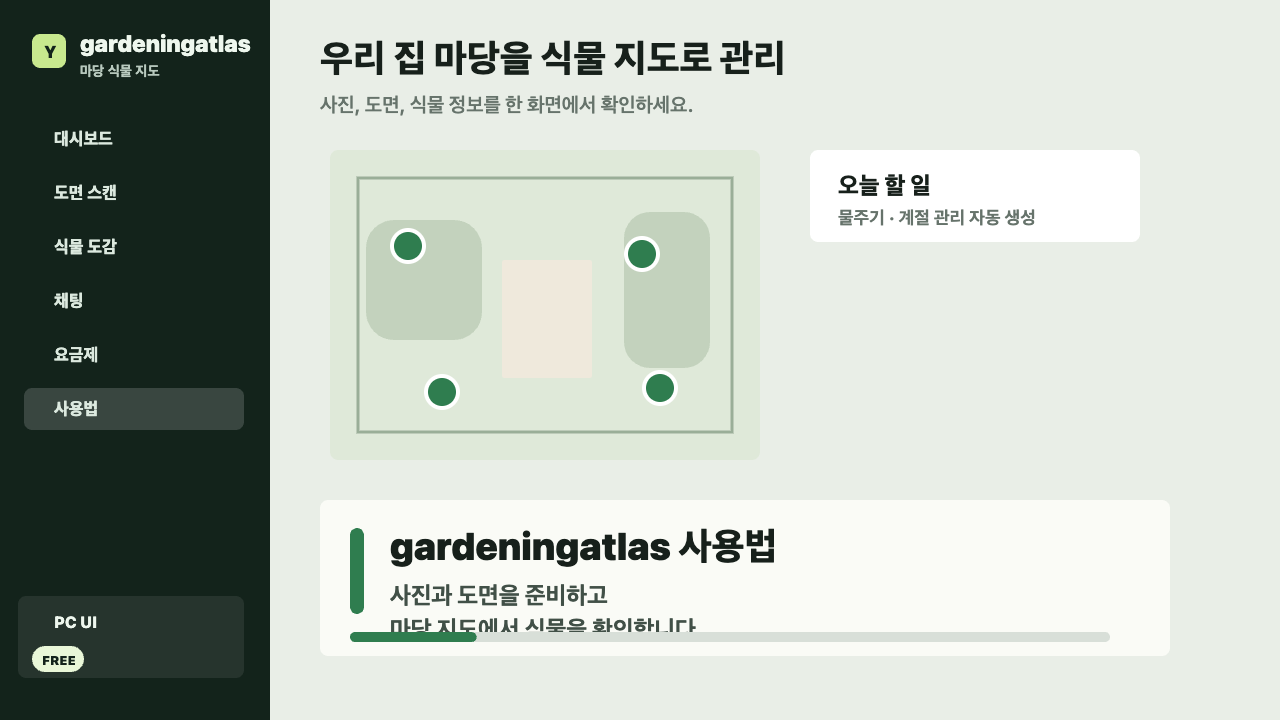
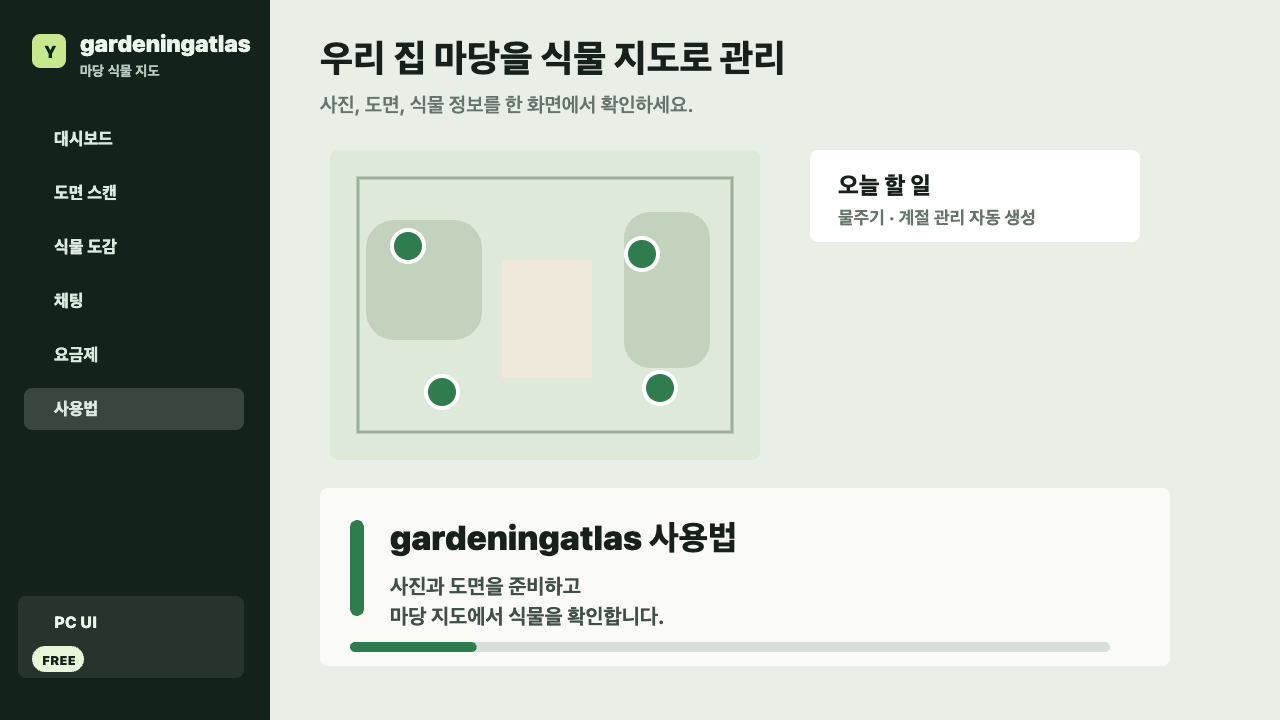
Use real photos for plant parts and fix guide captions

Changed region(s): [[0.25, 0.7028, 0.875, 0.9167]]

diff --git a/server.js b/server.js
@@ -390,17 +390,17 @@ function normalizePlantSearch(text) {
   return String(text || "")
     .replace(/'[^']*'/g, "")
     .replace(/\b(var\.|cv\.|cultivar)\b/gi, "")
+    .replace(/\b(subsp\.|ssp\.|f\.)\b/gi, "")
     .replace(/\s+/g, " ")
     .trim();
 }
 
-function partSearchTerms(part) {
-  return {
-    plant: ["plant", "habitus", "whole plant"],
-    leaf: ["leaf", "foliage", "plant"],
-    flower: ["flower", "blossom", "inflorescence"],
-    seed: ["cone", "fruit", "seed"]
-  }[part] || ["plant"];
+function cleanLatinForPhoto(latin) {
+  return normalizePlantSearch(latin)
+    .replace(/\bsp\.\b/gi, "")
+    .replace(/\b(White|Pink|Red|Yellow|Purple|Double|Fragrant|Silver|Golden|Dwarf|Upright|Weeping|Compact|Leaf|Flower|Group)\b/gi, "")
+    .replace(/\s+/g, " ")
+    .trim();
 }
 
 function fallbackPhotoKeyword(query, part) {
@@ -447,22 +447,33 @@ function fallbackPhotoKeyword(query, part) {
 
 function partPhotoWords(part) {
   return {
-    plant: ["plant", "tree", "shrub", "habitus"],
-    leaf: ["leaf", "leaves", "foliage"],
-    flower: ["flower", "flowers", "bloom", "inflorescence"],
-    seed: ["seed", "seeds", "fruit", "fruits", "berry", "berries", "cone", "cones", "pod"]
+    plant: ["plant", "tree", "shrub", "habitus", "whole plant"],
+    leaf: ["leaf", "leaves", "foliage", "closeup"],
+    flower: ["flower", "flowers", "bloom", "inflorescence", "closeup"],
+    seed: ["seed", "seeds", "fruit", "fruits", "samara", "berry", "berries", "cone", "cones", "pod"]
   }[part] || ["plant"];
 }
 
 function commonsSearchQuery(core, name, part) {
-  const normalizedCore = normalizePlantSearch(core);
+  const normalizedCore = cleanLatinForPhoto(core);
   const normalizedName = normalizePlantSearch(name);
+  const genus = normalizedCore.match(/^[A-Za-z][A-Za-z-]+/)?.[0] || "";
+  const species = normalizedCore.split(/\s+/).slice(0, 2).join(" ");
   const partWords = partPhotoWords(part);
   const primaryPart = partWords[0];
   const terms = [
-    normalizedCore && `${normalizedCore} ${primaryPart}`,
-    normalizedCore && `${normalizedCore} ${partWords.slice(0, 3).join(" OR ")}`,
-    normalizedCore,
+    species && `${species} ${primaryPart}`,
+    species && `${species} ${partWords[1] || primaryPart}`,
+    species && part === "seed" && `${species} fruit`,
+    species && part === "seed" && `${species} samara`,
+    normalizedCore && normalizedCore !== species && `${normalizedCore} ${primaryPart}`,
+    genus && genus !== species && `${genus} ${primaryPart}`,
+    genus && genus !== species && part === "flower" && `${genus} flower`,
+    genus && genus !== species && part === "leaf" && `${genus} leaf`,
+    genus && genus !== species && part === "seed" && `${genus} seed`,
+    part !== "plant" && species && `${species} plant`,
+    part !== "plant" && genus && genus !== species && `${genus} plant`,
+    species || normalizedCore,
     normalizedName && `${normalizedName} ${primaryPart}`,
     normalizedName && `${fallbackPhotoKeyword(normalizedName, part)} ${primaryPart}`
   ].filter(Boolean);
@@ -471,7 +482,7 @@ function commonsSearchQuery(core, name, part) {
 
 async function findCommonsImage(query, seed, part = "plant") {
   const cache = readJsonFile(plantImageFile, { images: {} });
-  const key = `v15|${query}|${part}|${seed}`.toLowerCase();
+  const key = `v20|${query}|${part}|${seed}`.toLowerCase();
   const cached = cache.images[key];
   if (cached && cached.url) return cached.url;
 
@@ -482,7 +493,7 @@ async function findCommonsImage(query, seed, part = "plant") {
   endpoint.searchParams.set("gsrnamespace", "6");
   endpoint.searchParams.set("gsrlimit", "20");
   endpoint.searchParams.set("prop", "imageinfo");
-  endpoint.searchParams.set("iiprop", "url|mime");
+  endpoint.searchParams.set("iiprop", "url|mime|size");
   endpoint.searchParams.set("iiurlwidth", "700");
   endpoint.searchParams.set("format", "json");
   endpoint.searchParams.set("origin", "*");
@@ -490,9 +501,11 @@ async function findCommonsImage(query, seed, part = "plant") {
   const response = await fetch(endpoint, { headers: { "User-Agent": "gardeningatlasPrototype/1.0" } });
   if (!response.ok) throw new Error("image search failed");
   const payload = await response.json();
-  const blockedTitleWords = /(catalogue|catalog|plate|herbarium|specimen|illustration|drawing|scan|book|flora|botanical register|iconograph|stamp|map|diagram|street|road|city|temple|shrine|landscape|building|house|park|garden view|avenue|monument|people|person|portrait|sign|logo|seedling tray|nursery row|bonsai display)/i;
+  const blockedTitleWords = /(catalogue|catalog|plate|herbarium|specimen|illustration|drawing|scan|book|flora|botanical register|iconograph|stamp|map|diagram|street|road|city|temple|shrine|landscape|building|house|avenue|monument|people|person|portrait|sign|logo|seedling tray|nursery row|bonsai display|pdf|\.svg)/i;
   const queryTokens = normalizePlantSearch(query).toLowerCase().split(/\s+/).filter(token => token.length > 3);
   const partWords = partPhotoWords(part);
+  const genericTokens = new Set([...partWords, "plant", "tree", "shrub", "whole", "habitus", "closeup", "close-up", "macro"]);
+  const identityTokens = queryTokens.filter(token => !genericTokens.has(token));
   const pages = Object.values(payload.query?.pages || {})
     .map(page => ({ title: page.title || "", info: page.imageinfo?.[0] }))
     .filter(page => !blockedTitleWords.test(page.title))
@@ -509,11 +522,15 @@ async function findCommonsImage(query, seed, part = "plant") {
     .map(page => {
       const info = page.info;
       const haystack = `${page.title} ${decodeURIComponent(info.thumburl || info.url || "")}`.toLowerCase();
+      const identityScore = identityTokens.reduce((sum, token) => sum + (haystack.includes(token) ? 1 : 0), 0);
+      if (identityTokens.length && identityScore === 0) return { info, score: -100 };
       const tokenScore = queryTokens.reduce((sum, token) => sum + (haystack.includes(token) ? 6 : 0), 0);
       const partScore = partWords.reduce((sum, token) => sum + (haystack.includes(token) ? 5 : 0), 0);
       const closeupScore = /(close|closeup|close-up|macro|detail|foliage|flower|fruit|leaf|leaves|seed|cone)/i.test(haystack) ? 4 : 0;
-      const penalty = /(habitat|forest|park|garden|arboretum|street|building|landscape)/i.test(haystack) ? 5 : 0;
-      const score = tokenScore + partScore + closeupScore - penalty;
+      const sizeScore = Math.min(4, Math.round(((info.width || 0) * (info.height || 0)) / 500000));
+      const plantPenalty = part === "plant" && /(bark|trunk|leaf|flower|fruit|seed|cone|closeup|close-up|macro)/i.test(haystack) ? 4 : 0;
+      const contextPenalty = /(habitat|forest|street|building|landscape)/i.test(haystack) ? 5 : 0;
+      const score = tokenScore + partScore + closeupScore + sizeScore - plantPenalty - contextPenalty;
       return { info, score };
     })
     .filter(page => page.score > 0)
@@ -530,15 +547,12 @@ async function findCommonsImage(query, seed, part = "plant") {
 }
 
 function wikipediaTitleCandidates(name, latin, part) {
-  const cleanLatin = normalizePlantSearch(latin)
-    .replace(/\bsp\.\b/gi, "")
-    .replace(/\b(White|Pink|Red|Yellow|Purple|Double|Fragrant|Silver|Golden|Dwarf|Upright|Weeping|Compact|Leaf|Flower|Group)\b/gi, "")
-    .replace(/\s+/g, " ")
-    .trim();
+  const cleanLatin = cleanLatinForPhoto(latin);
   const latinWords = cleanLatin.split(/\s+/).filter(Boolean);
   const latinTitle = latinWords.length >= 2 ? `${latinWords[0]} ${latinWords[1]}` : latinWords[0] || "";
+  const genusTitle = latinWords[0] || "";
   const fallback = fallbackPhotoKeyword(`${name} ${latin}`, part);
-  return [latinTitle, cleanLatin, fallback, name].filter(Boolean).map(item => item.replace(/\s+/g, "_"));
+  return [latinTitle, cleanLatin, genusTitle, fallback, name].filter(Boolean).map(item => item.replace(/\s+/g, "_"));
 }
 
 async function findWikipediaLeadImage(name, latin, part, seed) {
@@ -573,6 +587,14 @@ function redirectExternalImage(res, imageUrl) {
     "Cache-Control": "public, max-age=604800"
   });
   res.end();
+}
+
+function realPhotoFallbackUrl(part, type) {
+  if (part === "leaf") return "https://upload.wikimedia.org/wikipedia/commons/thumb/8/85/Hedera_helix_Leaf_Closeup_2084px.jpg/960px-Hedera_helix_Leaf_Closeup_2084px.jpg";
+  if (part === "flower") return "https://upload.wikimedia.org/wikipedia/commons/thumb/e/e0/Rosa_canina_closeup.jpg/960px-Rosa_canina_closeup.jpg";
+  if (part === "seed") return "https://upload.wikimedia.org/wikipedia/commons/thumb/4/4f/Acer_seed.jpg/960px-Acer_seed.jpg";
+  if (type === "vegetable" || type === "crop") return "https://upload.wikimedia.org/wikipedia/commons/thumb/2/24/Marketvegetables.jpg/960px-Marketvegetables.jpg";
+  return "https://upload.wikimedia.org/wikipedia/commons/thumb/4/42/Tree_in_field_001.jpg/960px-Tree_in_field_001.jpg";
 }
 
 async function proxyImage(res, imageUrl) {
@@ -693,7 +715,7 @@ async function handleApi(req, res) {
       try {
         sendDataUrlImage(res, override.dataUrl);
       } catch {
-        sendPlantIllustration(res, { name, latin, type, part }, "no-store");
+        redirectExternalImage(res, realPhotoFallbackUrl(part, type));
       }
       return;
     }
@@ -727,13 +749,30 @@ async function handleApi(req, res) {
           imageUrl = "";
         }
       }
+      if (!imageUrl && part !== "plant") {
+        try {
+          imageUrl = await findWikipediaLeadImage(name, latin, "plant", seed);
+        } catch {
+          imageUrl = "";
+        }
+      }
+      if (!imageUrl && part !== "plant") {
+        for (const query of commonsSearchQuery(core, name, "plant")) {
+          try {
+            imageUrl = await findCommonsImage(query, seed, "plant");
+            break;
+          } catch {
+            imageUrl = "";
+          }
+        }
+      }
       if (imageUrl) {
         redirectExternalImage(res, imageUrl);
         return;
       }
-      sendPlantIllustration(res, { name, latin, type, part });
+      redirectExternalImage(res, realPhotoFallbackUrl(part, type));
     } catch {
-      sendPlantIllustration(res, { name, latin, type, part }, "no-store");
+      redirectExternalImage(res, realPhotoFallbackUrl(part, type));
     }
     return;
   }

diff --git a/scripts/generate-guide-video.js b/scripts/generate-guide-video.js
@@ -141,12 +141,12 @@ async function main() {
         text("물주기 · 계절 관리 자동 생성", 838, 224, 18, 700, "#66736b");
       }
 
-      fillRound(320, 500, 850, 156, 8, "rgba(251,252,247,.96)");
-      fillRound(350, 528, 14, 86, 7, slide.accent);
-      text(slide.title, 390, 560, 38, 900);
-      slide.lines.forEach((line, i) => text(line, 390, 604 + i * 34, 24, 700, "#415047"));
-      fillRound(350, 632, 760, 10, 5, "#d8dfd8");
-      fillRound(350, 632, 760 * ((slideIndex + 1) / slides.length), 10, 5, slide.accent);
+      fillRound(320, 488, 850, 178, 8, "rgba(251,252,247,.96)");
+      fillRound(350, 520, 14, 96, 7, slide.accent);
+      text(slide.title, 390, 550, 34, 900);
+      slide.lines.forEach((line, i) => text(line, 390, 594 + i * 30, 21, 700, "#415047"));
+      fillRound(350, 642, 760, 10, 5, "#d8dfd8");
+      fillRound(350, 642, 760 * ((slideIndex + 1) / slides.length), 10, 5, slide.accent);
     }
 
     drawScreen(slides[0], 0);

diff --git a/index.html b/index.html
@@ -1052,11 +1052,12 @@
 
     .guide-video {
       width: 100%;
-      aspect-ratio: 16 / 9;
+      aspect-ratio: 16 / 9.6;
       display: block;
       border-radius: 8px;
       border: 1px solid var(--line);
       background: #17201b;
+      object-fit: contain;
     }
 
     .guide-checklist {
@@ -1536,7 +1537,7 @@
           </div>
           <div class="panel-body guide-layout">
             <video class="guide-video" controls preload="metadata" poster="yardatlas-icon.svg">
-              <source src="assets/admin-upload-guide.webm?v=27" type="video/webm">
+              <source src="assets/admin-upload-guide.webm?v=28" type="video/webm">
             </video>
             <div class="guide-checklist">
               <div class="detail"><h3>도면 준비</h3><p>마당을 위에서 본 사진, 지도 캡처, 손그림 도면을 JPG 또는 PNG로 준비합니다.</p></div>
@@ -1811,7 +1812,7 @@
     const sunOptions = ["양지", "반양지", "음지"];
     const waterOptions = ["주 1회 깊게", "주 2회 적당히", "흙이 마르면", "여름에는 2~3일 간격", "건조하게 관리"];
     const soilOptions = ["배수 좋은 흙", "보습력 있는 흙", "약산성 토양", "모래 섞인 흙", "일반 정원토"];
-    const PHOTO_VERSION = "v31";
+    const PHOTO_VERSION = "v32";
 
     function makeCatalog() {
       const list = [];